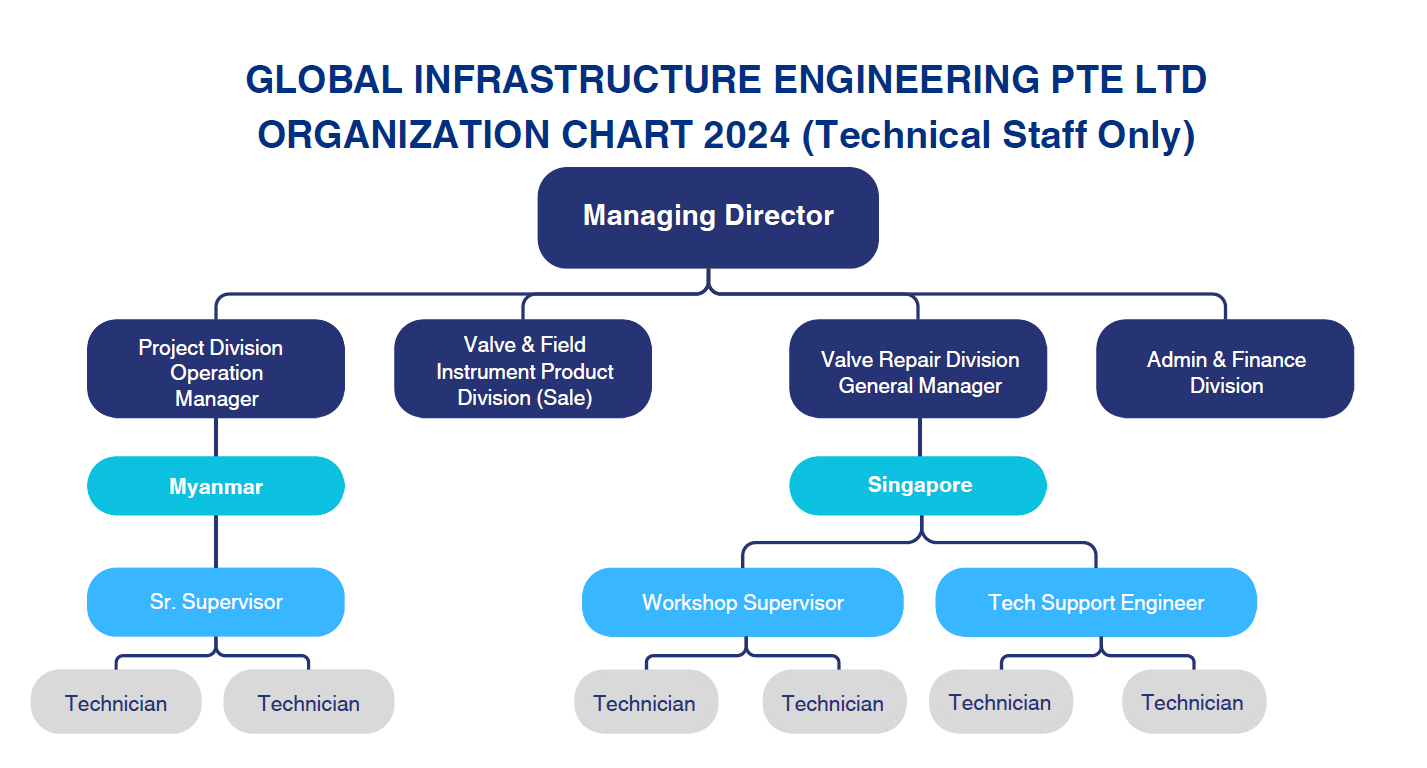
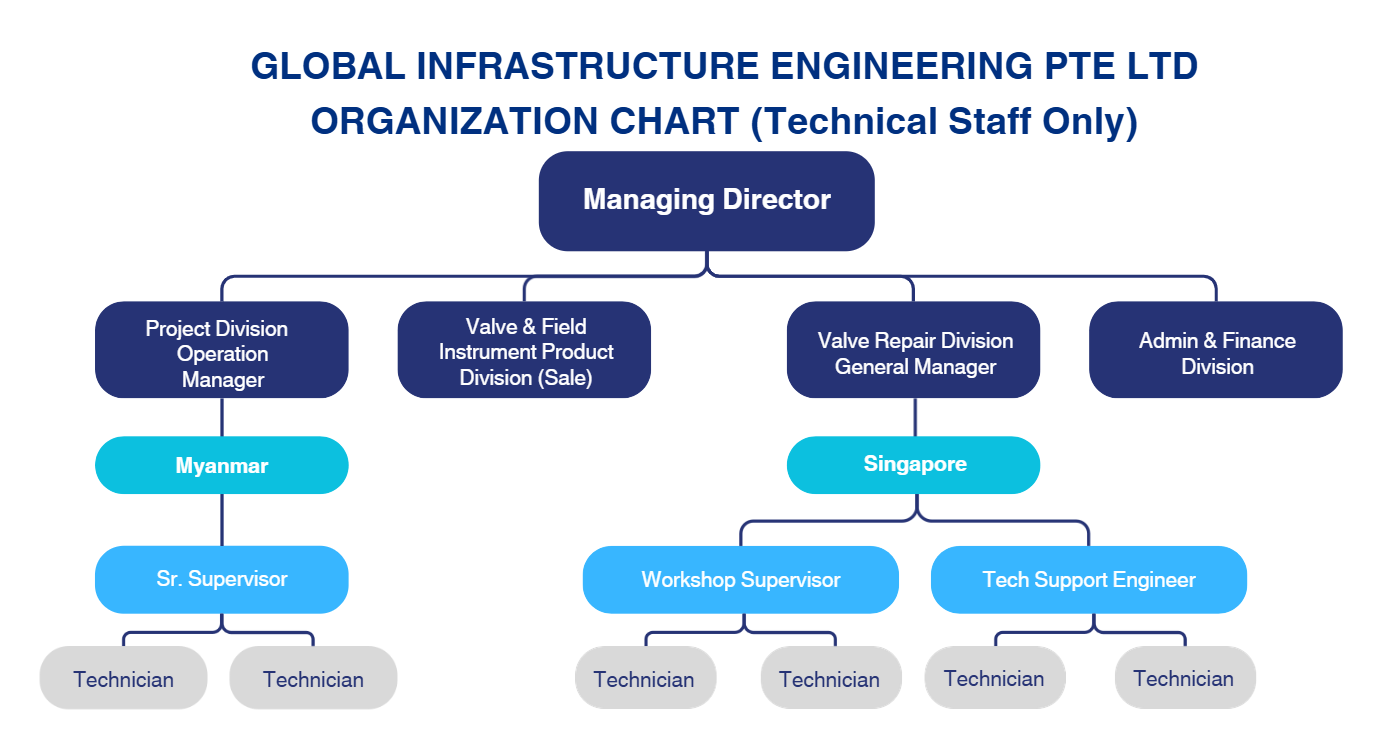
Update org chart image and expand regional copy to Middle East.
Replace the organization chart with the latest client photo and update site text that previously referenced Asia Pacific alone to Asia Pacific and Middle East.

Changed region(s): [[0.0, 0.0618, 0.9864, 0.9583]]

diff --git a/src/data/company.ts b/src/data/company.ts
@@ -3,7 +3,7 @@ export const company = {
   shortName: 'GIE',
   tagline: 'Valve Specialist & Mechanical Service',
   description:
-    'Established in 2016 with Singapore as headquarters, Global Infrastructure Engineering specializes in valve automation, mechanical services, field instrumentation, and training for oil & gas, offshore, power, petrochemical, and food industries across Asia Pacific.',
+    'Established in 2016 with Singapore as headquarters, Global Infrastructure Engineering specializes in valve automation, mechanical services, field instrumentation, and training for oil & gas, offshore, power, petrochemical, and food industries across Asia Pacific and Middle East.',
   website: 'https://www.giesg.com',
   email: '[email redacted]',
   logo: '/images/logo/gie-logo.png',
@@ -21,11 +21,11 @@ export const company = {
   mission:
     'To deliver reliable valve automation and mechanical services that keep critical industrial operations running safely, efficiently, and without interruption.',
   vision:
-    'To be the trusted partner of choice for valve specialist and mechanical service solutions across Asia Pacific and beyond.',
+    'To be the trusted partner of choice for valve specialist and mechanical service solutions across Asia Pacific and Middle East.',
   aboutIntro: [
     'Established in 2016 with Singapore as headquarters, Global Infrastructure Engineering has branches in Malaysia, Thailand, and Myanmar. G.I.E. specializes in mechanical services including valves & control, actuators, pumps, valve integration, field instrument calibration (pressure, temperature & level), bolt tensioning and torquing, in-situ flange repairing, and in-situ pressure safety valve repair & testing.',
     'We provide control & safety valve training covering fundamental maintenance, testing with standard compliance, and total valve management. All services are carried out by personnel with extensive expertise across leading valve manufacturers.',
-    'We serve oil & gas, offshore, power, petrochemical, and food industries across Asia Pacific and beyond.',
+    'We serve oil & gas, offshore, power, petrochemical, and food industries across Asia Pacific and Middle East.',
   ],
   manufacturers: [
     'Rotork',

diff --git a/src/data/sitePhotos.ts b/src/data/sitePhotos.ts
@@ -1,7 +1,7 @@
 export const teamPhoto = {
   src: '/images/team/gie-team.png',
   alt: 'Global Infrastructure Engineering team photo',
-  caption: 'The GIE team — field engineers and technicians serving clients across Asia Pacific.',
+  caption: 'The GIE team — field engineers and technicians serving clients across Asia Pacific and Middle East.',
 };
 
 export const certificatePhoto = {